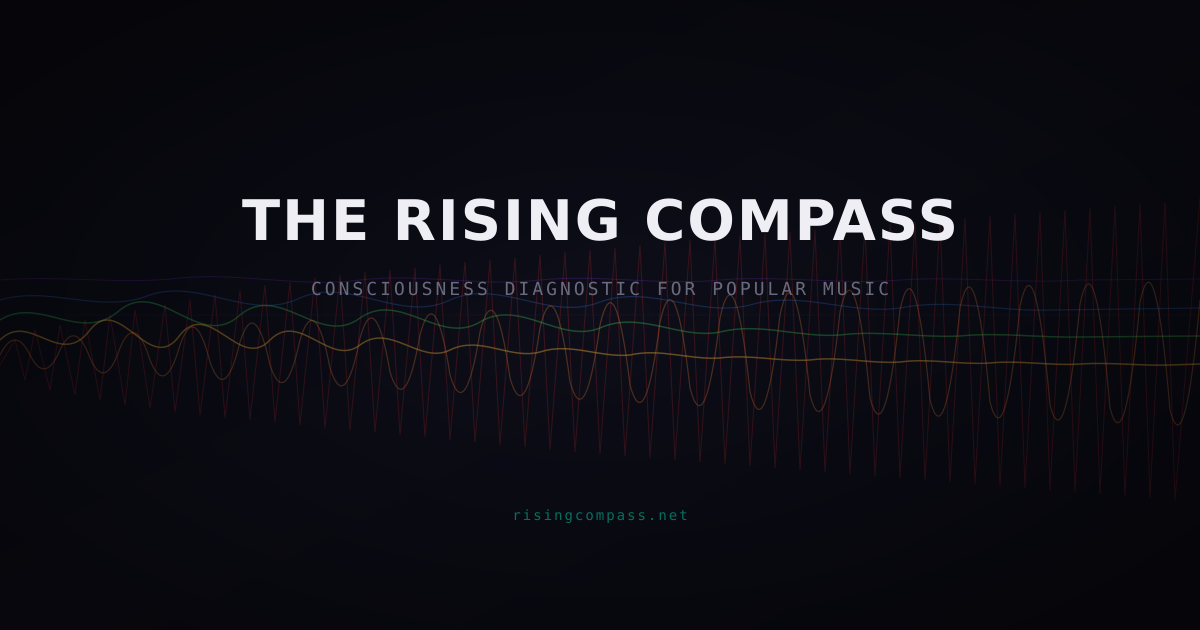
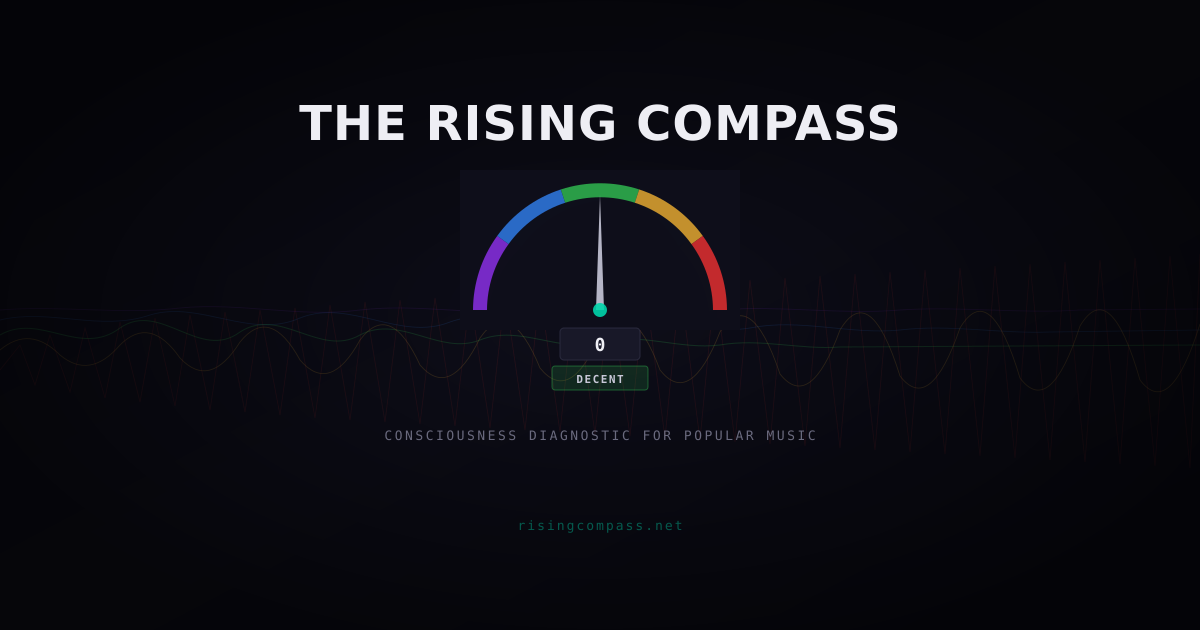
OG image with compass, lock Reverse/Playlist tabs, What If starts at zero
- OG image: compass gauge with tier arcs + waveform background texture
- Reverse and Playlist calculator tabs locked with "Soon" badge
  (not calibrated yet)
- What If calculator loads with all zeros so users build from scratch

diff --git a/frontend/js/app.js b/frontend/js/app.js
@@ -1182,8 +1182,8 @@ const App = (() => {
         <div class="calc-header-row">
           <div class="calc-tabs">
             <button class="calc-tab active" data-calc="mix">What If</button>
-            <button class="calc-tab" data-calc="reverse">Reverse</button>
-            <button class="calc-tab" data-calc="playlist">Playlist</button>
+            <button class="calc-tab calc-tab-locked" data-calc="reverse" disabled>Reverse <span class="calc-tab-soon">Soon</span></button>
+            <button class="calc-tab calc-tab-locked" data-calc="playlist" disabled>Playlist <span class="calc-tab-soon">Soon</span></button>
           </div>
           <button class="calc-close-btn" id="calc-close" title="Close calculator">
             <svg viewBox="0 0 24 24" width="14" height="14"><path fill="currentColor" d="M19 6.41L17.59 5 12 10.59 6.41 5 5 6.41 10.59 12 5 17.59 6.41 19 12 13.41 17.59 19 19 17.59 13.41 12z"/></svg>
@@ -1230,8 +1230,8 @@ const App = (() => {
       { key: 'violet', label: 'Ascended', initial: 0 },
       { key: 'blue', label: 'Elevated', initial: 0 },
       { key: 'yellow', label: 'Decent', initial: 0 },
-      { key: 'yellow', label: 'Degraded', initial: 5 },
-      { key: 'red', label: 'Corrupted', initial: 5 },
+      { key: 'yellow', label: 'Degraded', initial: 0 },
+      { key: 'red', label: 'Corrupted', initial: 0 },
     ];
 
     let rows = '';

diff --git a/frontend/css/main.css b/frontend/css/main.css
@@ -889,6 +889,24 @@ body {
   border-bottom-color: var(--rc-accent);
 }
 
+.calc-tab-locked {
+  opacity: 0.35;
+  cursor: default;
+  pointer-events: none;
+}
+
+.calc-tab-soon {
+  font-size: 8px;
+  text-transform: uppercase;
+  letter-spacing: 0.06em;
+  background: var(--rc-border);
+  color: var(--rc-text-dim);
+  padding: 1px 5px;
+  border-radius: 3px;
+  margin-left: 4px;
+  vertical-align: middle;
+}
+
 .calc-panel {
   display: none;
 }
